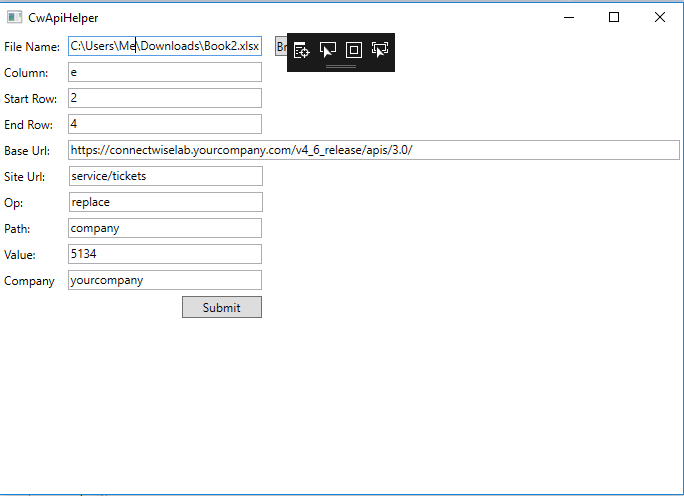
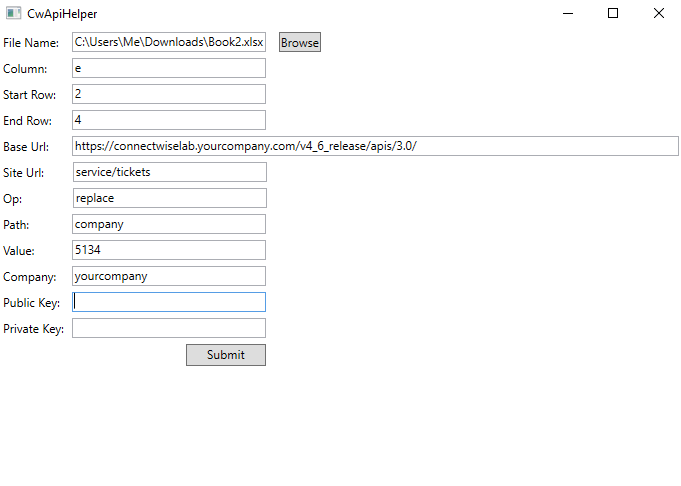
Make public key and private key available on the UI

diff --git a/SpreadsheetParser/CwApiHelper.xaml b/SpreadsheetParser/CwApiHelper.xaml
@@ -18,6 +18,8 @@
             <RowDefinition Height="Auto" />
             <RowDefinition Height="Auto" />
             <RowDefinition Height="Auto" />
+            <RowDefinition Height="Auto" />
+            <RowDefinition Height="Auto" />
             <RowDefinition Height="28" />
             <RowDefinition Height="*" />
         </Grid.RowDefinitions>
@@ -39,7 +41,9 @@
         <Label Grid.Row="6" Grid.Column="0" Content="Op:"/>
         <Label Grid.Row="7" Grid.Column="0" Content="Path:"/>
         <Label Grid.Row="8" Grid.Column="0" Content="Value:"/>
-        <Label Grid.Row="9" Grid.Column="0" Content="Company"/>
+        <Label Grid.Row="9" Grid.Column="0" Content="Company:"/>
+        <Label Grid.Row="10" Grid.Column="0" Content="Public Key:"/>
+        <Label Grid.Row="11" Grid.Column="0" Content="Private Key:"/>
         <TextBox Grid.Column="1" Grid.Row="0" Margin="3" Text="{Binding Path=FileName}" />
         <TextBox Grid.Column="1" Grid.Row="1" Margin="3" Text="{Binding Path=Column}" />
         <TextBox Grid.Column="1" Grid.Row="2" Margin="3" Text="{Binding Path=StartRow}" />
@@ -50,7 +54,9 @@
         <TextBox Grid.Column="1" Grid.Row="7" Margin="3" Text="{Binding Path=Path}" />
         <TextBox Grid.Column="1" Grid.Row="8" Margin="3" Text="{Binding Path=Value}" />
         <TextBox Grid.Column="1" Grid.Row="9" Margin="3" Text="{Binding Path=Company}" />
-        <Button Command="{Binding ClickCommand}" Grid.Column="1" Grid.Row="10" HorizontalAlignment="Right" 
+        <TextBox Grid.Column="1" Grid.Row="10" Margin="3" Text="{Binding Path=PublicKey}" />
+        <TextBox Grid.Column="1" Grid.Row="11" Margin="3" Text="{Binding Path=PrivateKey}" />
+        <Button Command="{Binding ClickCommand}" Grid.Column="1" Grid.Row="12" HorizontalAlignment="Right"
             MinWidth="80" Margin="3" Content="Submit"  />
      
     </Grid>

diff --git a/SpreadsheetParser/VMCwApiHelper.cs b/SpreadsheetParser/VMCwApiHelper.cs
@@ -62,7 +62,7 @@ namespace SpreadsheetParser
                 {
                     try
                     {
-                        IConnectWiseService _connectWiseService = new ConnectWiseService(Company, BaseUrl, SiteUrl);
+                        IConnectWiseService _connectWiseService = new ConnectWiseService(Company, BaseUrl, SiteUrl, PublicKey, PrivateKey);
                         //var res = _connectWiseService.ChangeCompany(Convert.ToInt32(ticketId), Value).Result;
                         var res = _connectWiseService.ChangeGenerically(Convert.ToInt32(ticketId), Value, Op, Path).Result;
                     }
@@ -301,6 +301,36 @@ namespace SpreadsheetParser
                 {
                     _company = value;
                     OnPropertyChanged("Company");
+                }
+            }
+        }
+
+        private string _publicKey = "";
+
+        public string PublicKey
+        {
+            get { return _publicKey; }
+            set
+            {
+                if (value != _publicKey)
+                {
+                    _publicKey = value;
+                    OnPropertyChanged("PublicKey");
+                }
+            }
+        }
+
+        private string _privateKey = "";
+
+        public string PrivateKey
+        {
+            get { return _privateKey; }
+            set
+            {
+                if (value != _privateKey)
+                {
+                    _privateKey = value;
+                    OnPropertyChanged("PrivateKey");
                 }
             }
         }

diff --git a/SpreadsheetParser/ConnectWise/ConnectWiseService.cs b/SpreadsheetParser/ConnectWise/ConnectWiseService.cs
@@ -21,11 +21,11 @@ namespace SpreadsheetParser.ConnectWise
 
         #region Constructor
 
-        public ConnectWiseService(string companyId, string baseUrl, string siteUrl)
+        public ConnectWiseService(string companyId, string baseUrl, string siteUrl, string publicKey, string privateKey)
         {
             LogManager.ThrowExceptions = true;
             _log = LogManager.GetCurrentClassLogger();
-            _settings = new ApiSettings(companyId, baseUrl, siteUrl);
+            _settings = new ApiSettings(companyId, baseUrl, siteUrl, publicKey, privateKey);
             InitHttpClient();
         }
 
@@ -197,11 +197,11 @@ namespace SpreadsheetParser.ConnectWise
         public string ApiBaseUri { get; }
         public string TicketsUri { get; }
 
-        public ApiSettings(string companyId, string baseUrl, string siteUrl)
+        public ApiSettings(string companyId, string baseUrl, string siteUrl, string publicKey, string privateKey)
         {
             CompanyId = companyId;
-            PublicKey = "";
-            PrivateKey = "";
+            PublicKey = publicKey;
+            PrivateKey = privateKey;
             ApiBaseUri = baseUrl;
             TicketsUri = siteUrl;
         }

diff --git a/README.md b/README.md
@@ -11,14 +11,14 @@
 # How to use the ConnectWise API Updater
 1. Click the CW Helper on the main page
 
-2. Enter the 
+2. Fill in the Public Key and Private Key, but if you want, you can also set it by default 
 ```
-PublicKey = "";
-PrivateKey = "";
+private string _publicKey = "";
+private string _privateKey = "";
 ```
-in ConnectWiseService.cs
+in VMCwApiHelper.cs
 
-3. File Name is basically the ConnectWise URL you need to update: for example, in a spreadsheet you have a column of IDs 123, 234, 345. In this case, we will get:
+3. File Name is basically the ConnectWise ticket Id/company Id etc you need to update: for example, in a spreadsheet you have a column of ticket IDs 123, 234, 345. In this case, we will get:
 ```
 https://connectwiselab.yourcompany.com/v4_6_release/apis/3.0/service/tickets/123
 https://connectwiselab.yourcompany.com/v4_6_release/apis/3.0/service/tickets/234
